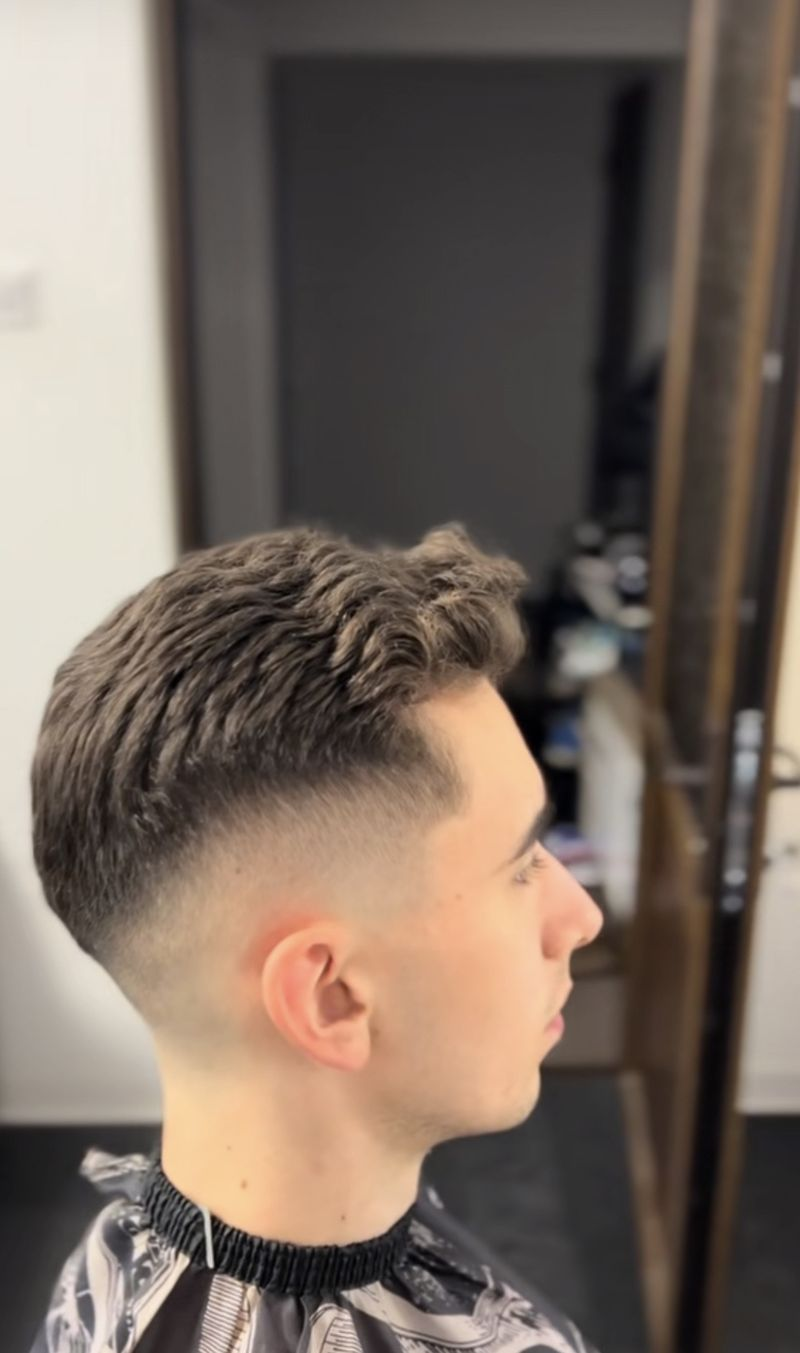
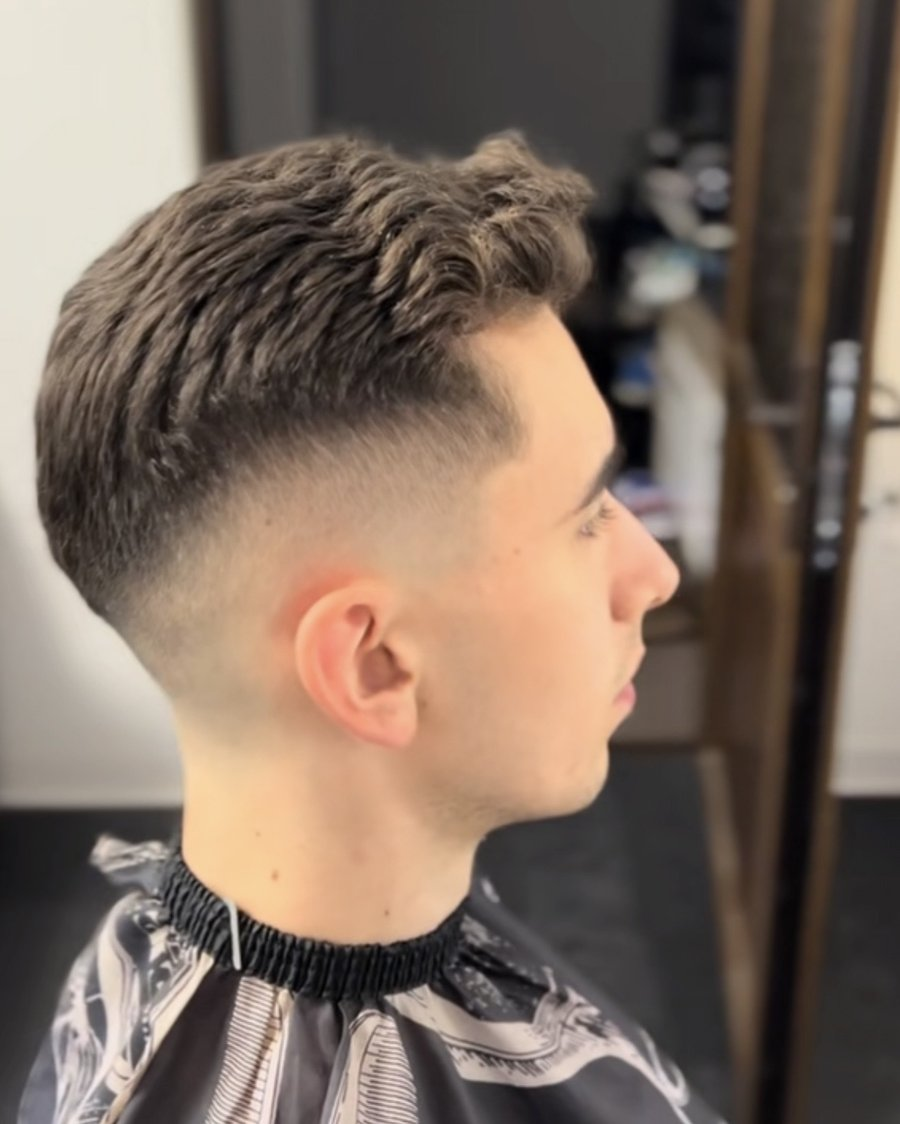
Add files via upload

diff --git a/index.html b/index.html
@@ -525,11 +525,11 @@
 
   .ba-card{
     margin-top:2px; position:relative; overflow:hidden; border:1px solid var(--line);
-    aspect-ratio:16/11; cursor:ew-resize; touch-action:pan-y;
+    aspect-ratio:4/5; cursor:ew-resize; touch-action:pan-y;
+    max-width:520px; margin-left:auto; margin-right:auto;
   }
-  @media(max-width:700px){ .ba-card{ aspect-ratio:4/3.9; } }
   .ba-layer{ position:absolute; inset:0; }
-  .ba-layer img{ width:100%; height:100%; object-fit:cover; object-position:center 45%; }
+  .ba-layer img{ width:100%; height:100%; object-fit:cover; object-position:center center; }
   .ba-before-wrap{ position:absolute; inset:0; clip-path:inset(0 0% 0 0); }
   .ba-before-wrap.dragging{ transition:none; }
   .ba-before-wrap:not(.dragging){ transition:clip-path 0.25s ease; }
